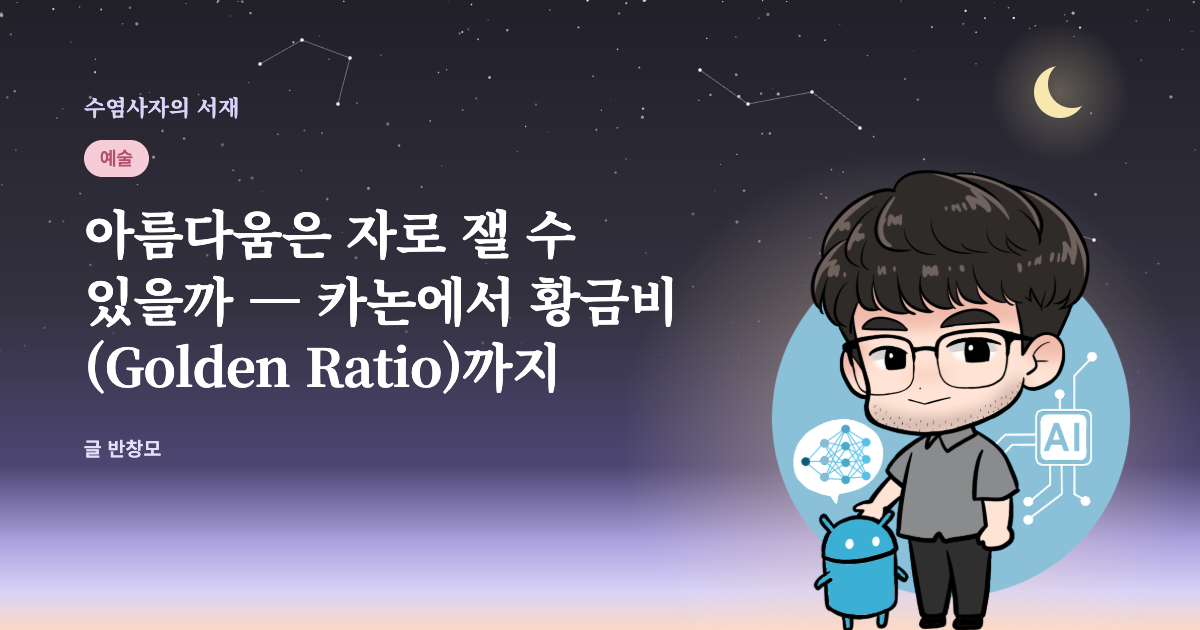
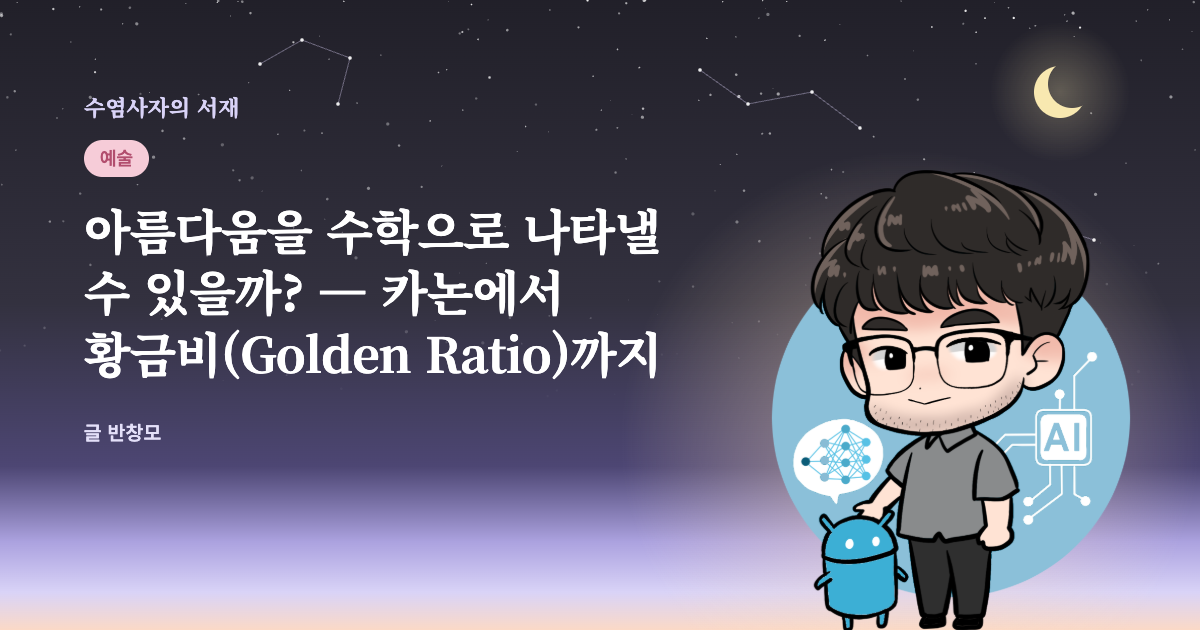
fix: 어색한 제목 넷을 평범한 질문으로 고침
습관 21일, 뇌 전극, 페퍼트 거북이 로봇, 아름다움과 수학. 공유 카드도 새 제목으로 다시 그렸다.

Claude-Session: https://claude.ai/code/session_01J36DQQsi1iZDy94NMGj8jH

Changed region(s): [[0.0617, 0.3317, 0.5858, 0.6333], [0.0617, 0.6635, 0.1542, 0.7238]]

diff --git a/posts/learning-by-making/post.html b/posts/learning-by-making/post.html
@@ -60,7 +60,7 @@
 <body>
 <article>
 <div class="kicker">배움 읽기</div>
-<h1>거북이 로봇은 무엇을 가르치러 왔을까 — 페퍼트의 '만들며 배우기'(Constructionism)</h1>
+<h1>시모어 페퍼트의 거북이 로봇(터틀봇)은 우리에게 무엇을 가르쳐주는가? — 페퍼트의 '만들며 배우기'(Constructionism)</h1>
 <div class="meta">2026-11-06 · 약 14분 분량 · 글 반창모</div>
 
 <!-- 1. 도입 -->

diff --git a/posts/brain-map-brodmann/post.html b/posts/brain-map-brodmann/post.html
@@ -60,7 +60,7 @@
 <body>
 <article>
 <div class="kicker">기계 읽기</div>
-<h1>뇌에 심는 전극은 어디를 겨눌까 — 브로드만 영역(Brodmann area)과 뇌-컴퓨터 인터페이스</h1>
+<h1>뇌에 전극을 심는 기술은 어디를 향하고 있나? — 브로드만 영역(Brodmann area)과 뇌-컴퓨터 인터페이스</h1>
 <div class="meta">2026-11-06 · 약 14분 분량 · 글 반창모</div>
 
 <!-- 1. 도입 -->

diff --git a/posts/beauty-ratio/post.html b/posts/beauty-ratio/post.html
@@ -60,7 +60,7 @@
 <body>
 <article>
 <div class="kicker">그림 읽기</div>
-<h1>아름다움은 자로 잴 수 있을까 — 카논에서 황금비(Golden Ratio)까지</h1>
+<h1>아름다움을 수학으로 나타낼 수 있을까? — 카논에서 황금비(Golden Ratio)까지</h1>
 <div class="meta">2026-11-06 · 약 14분 분량 · 글 반창모</div>
 
 <!-- 1. 도입 -->

diff --git a/posts/habit-21-days/post.html b/posts/habit-21-days/post.html
@@ -60,7 +60,7 @@
 <body>
 <article>
 <div class="kicker">마음 읽기 · 통념 깨기</div>
-<h1>습관은 정말 21일이면 들까 — 습관 형성(Habit Formation)</h1>
+<h1>습관을 만드는 데 정말 21일이 필요할까? — 습관 형성(Habit Formation)</h1>
 <div class="meta">2026-11-06 · 약 15분 분량 · 글 반창모</div>
 
 <!-- 1. 도입 -->
